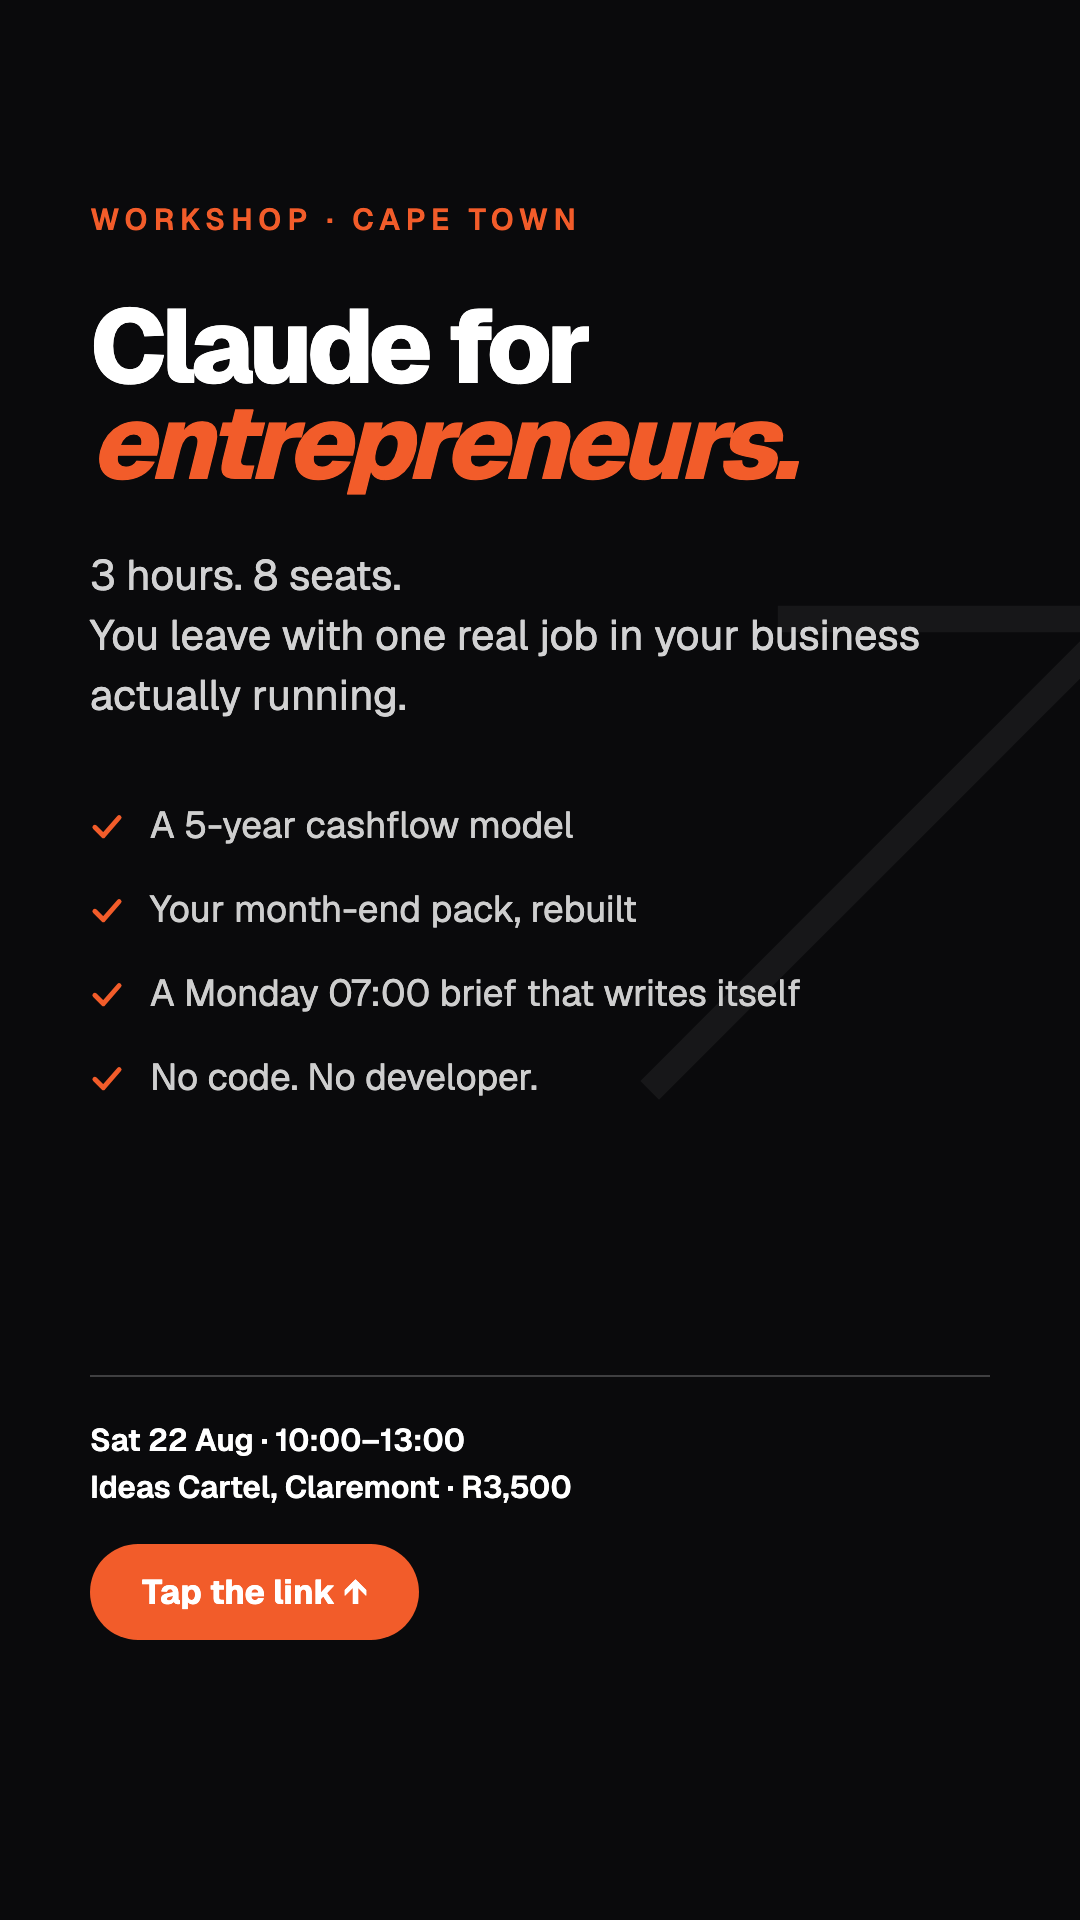
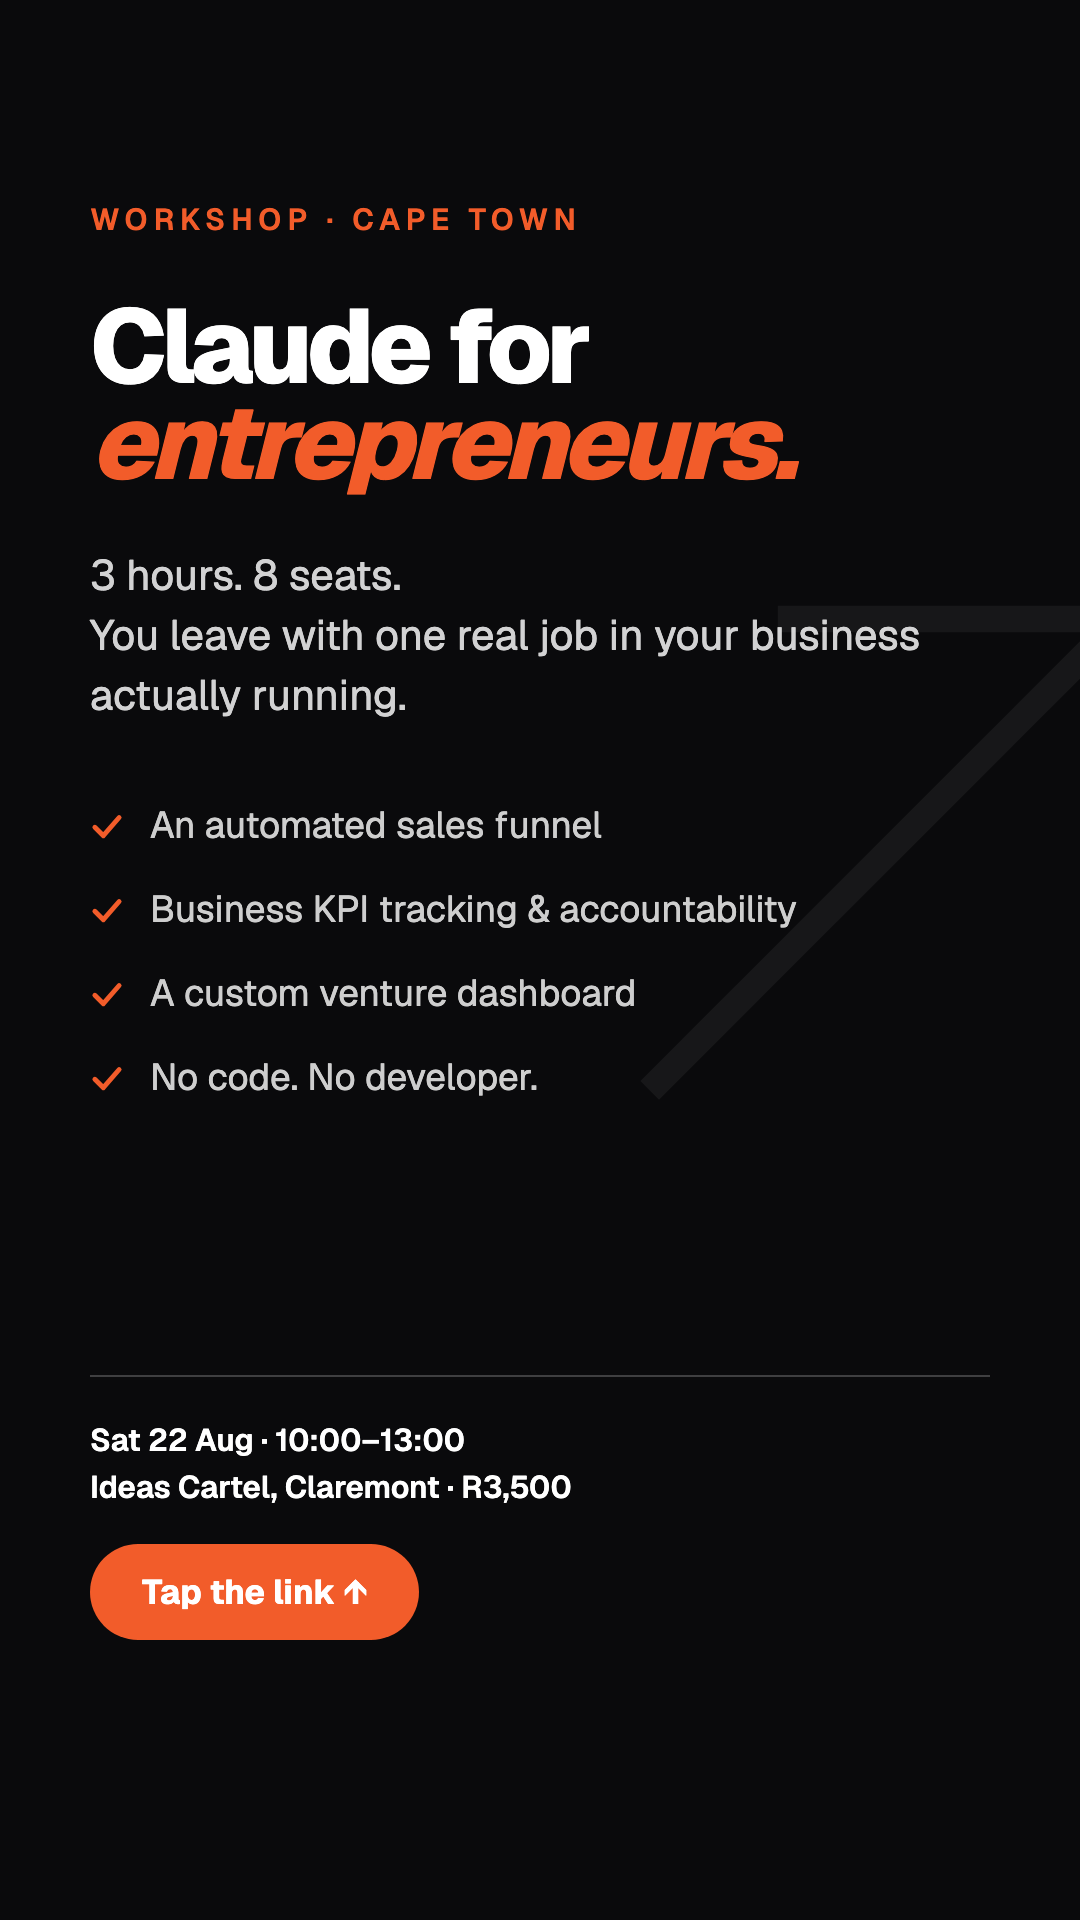
Refresh the build examples: sales funnel, KPI tracking, venture dashboard
Each lands in a different group rather than crowding one: the funnel leads
Selling, KPI tracking leads Running the place, the venture dashboard leads
Tools. They displace the weakest item in each — inbox triage, competency
reviews, and the generic 'dashboard you share with a link'.

The 'and once you can do that' tier now opens on the WhatsApp agent, since
the sales funnel moved into the room and would otherwise have been promised
twice.

Propagated to the home strip, LinkedIn card 4, the posts doc, and Instagram
stories 1, 2 and 5.

make-posts-doc.js -> .cjs: the project sets "type": "module", so as .js it
was parsed as ESM and its require() calls threw. It only ever ran because
it was first written outside the project.

Changed region(s): [[0.1528, 0.4688, 0.7333, 0.5312], [0.1528, 0.4062, 0.55, 0.4375]]

diff --git a/marketing/instagram/stories.html b/marketing/instagram/stories.html
@@ -145,15 +145,15 @@
   <ul class="ticks">
     <li>
       <svg width="34" height="34" viewBox="0 0 14 14"><path d="M2 7.5L5.5 11L12 3.5" stroke="#F25C2A" stroke-width="2" fill="none" stroke-linecap="round" stroke-linejoin="round"/></svg>
-      <span>A 5-year cashflow model</span>
+      <span>An automated sales funnel</span>
     </li>
     <li>
       <svg width="34" height="34" viewBox="0 0 14 14"><path d="M2 7.5L5.5 11L12 3.5" stroke="#F25C2A" stroke-width="2" fill="none" stroke-linecap="round" stroke-linejoin="round"/></svg>
-      <span>Your month-end pack, rebuilt</span>
+      <span>Business KPI tracking &amp; accountability</span>
     </li>
     <li>
       <svg width="34" height="34" viewBox="0 0 14 14"><path d="M2 7.5L5.5 11L12 3.5" stroke="#F25C2A" stroke-width="2" fill="none" stroke-linecap="round" stroke-linejoin="round"/></svg>
-      <span>A Monday 07:00 brief that writes itself</span>
+      <span>A custom venture dashboard</span>
     </li>
     <li>
       <svg width="34" height="34" viewBox="0 0 14 14"><path d="M2 7.5L5.5 11L12 3.5" stroke="#F25C2A" stroke-width="2" fill="none" stroke-linecap="round" stroke-linejoin="round"/></svg>
@@ -179,11 +179,11 @@
   </h2>
 
   <ol>
-    <li><span class="n">01</span><span>A 5-year cashflow model</span></li>
-    <li><span class="n">02</span><span>Your month-end pack</span></li>
-    <li><span class="n">03</span><span>An investor deck</span></li>
-    <li><span class="n">04</span><span>A Monday 07:00 brief</span></li>
-    <li style="border-bottom:none"><span class="n">05</span><span>A shareable dashboard</span></li>
+    <li><span class="n">01</span><span>An automated sales funnel</span></li>
+    <li><span class="n">02</span><span>Business KPI tracking</span></li>
+    <li><span class="n">03</span><span>A custom venture dashboard</span></li>
+    <li><span class="n">04</span><span>An automated sales funnel</span></li>
+    <li style="border-bottom:none"><span class="n">05</span><span>Your month-end pack</span></li>
   </ol>
 
   <div class="foot">
@@ -255,11 +255,11 @@
   <ul class="ticks">
     <li>
       <svg width="34" height="34" viewBox="0 0 14 14"><path d="M2 7.5L5.5 11L12 3.5" stroke="#F25C2A" stroke-width="2" fill="none" stroke-linecap="round" stroke-linejoin="round"/></svg>
-      <span>A 5-year cashflow model</span>
+      <span>An automated sales funnel</span>
     </li>
     <li>
       <svg width="34" height="34" viewBox="0 0 14 14"><path d="M2 7.5L5.5 11L12 3.5" stroke="#F25C2A" stroke-width="2" fill="none" stroke-linecap="round" stroke-linejoin="round"/></svg>
-      <span>Your month-end pack, rebuilt</span>
+      <span>Business KPI tracking &amp; accountability</span>
     </li>
     <li>
       <svg width="34" height="34" viewBox="0 0 14 14"><path d="M2 7.5L5.5 11L12 3.5" stroke="#F25C2A" stroke-width="2" fill="none" stroke-linecap="round" stroke-linejoin="round"/></svg>

diff --git a/src/data/site.ts b/src/data/site.ts
@@ -512,17 +512,17 @@ export const buildIt = {
       group: "Selling",
       icon: "target",
       items: [
+        "An automated sales funnel — lead in, researched, followed up",
         "An investor deck you can defend in the room",
         "Quotes and proposals on your template",
-        "Inbox leads triaged and researched before you read them",
       ],
     },
     {
       group: "Running the place",
       icon: "gear",
       items: [
+        "KPI tracking that chases the team for the number, not you",
         "A Monday 07:00 brief that writes itself",
-        "Reviews built on your competency framework",
         "The SOPs you've never written down",
       ],
     },
@@ -530,7 +530,7 @@ export const buildIt = {
       group: "Tools",
       icon: "wrench",
       items: [
-        "A dashboard you share with a link",
+        "A custom dashboard for your venture, live on your own numbers",
         "A pricing calculator your team can use without you",
         "A one-page site for a deck or a campaign",
       ],
@@ -541,10 +541,10 @@ export const buildIt = {
     "Real files and live links — spreadsheets, decks, documents. No developers, nothing to install.",
 
   after: [
-    "A sales pipeline that researches and drafts the follow-up",
+    "A WhatsApp agent taking first contact, drafts held for your approval",
     "Customer relationships run by exception",
     "Recruitment screened against your actual scorecard",
-    "Resource and roster optimisation",
+    "Resource and roster optimisation across sites, people and stock",
     "A review cycle that summarises itself",
   ],
 

diff --git a/marketing/linkedin/workshop-cards.html b/marketing/linkedin/workshop-cards.html
@@ -235,11 +235,11 @@
     </h2>
 
     <ol>
-      <li><span class="n">01</span><span>A 5-year cashflow model</span></li>
-      <li><span class="n">02</span><span>Your month-end pack, rebuilt</span></li>
-      <li><span class="n">03</span><span>An investor deck you can defend</span></li>
-      <li><span class="n">04</span><span>A Monday 07:00 business brief</span></li>
-      <li><span class="n">05</span><span>A dashboard you share with a link</span></li>
+      <li><span class="n">01</span><span>An automated sales funnel</span></li>
+      <li><span class="n">02</span><span>Business KPI tracking &amp; accountability</span></li>
+      <li><span class="n">03</span><span>A custom venture dashboard</span></li>
+      <li><span class="n">04</span><span>A 5-year cashflow model</span></li>
+      <li><span class="n">05</span><span>Your month-end pack, rebuilt</span></li>
       <li style="border-bottom: none;"><span class="n">06</span><span>The SOPs you've never written down</span></li>
     </ol>
   </div>
